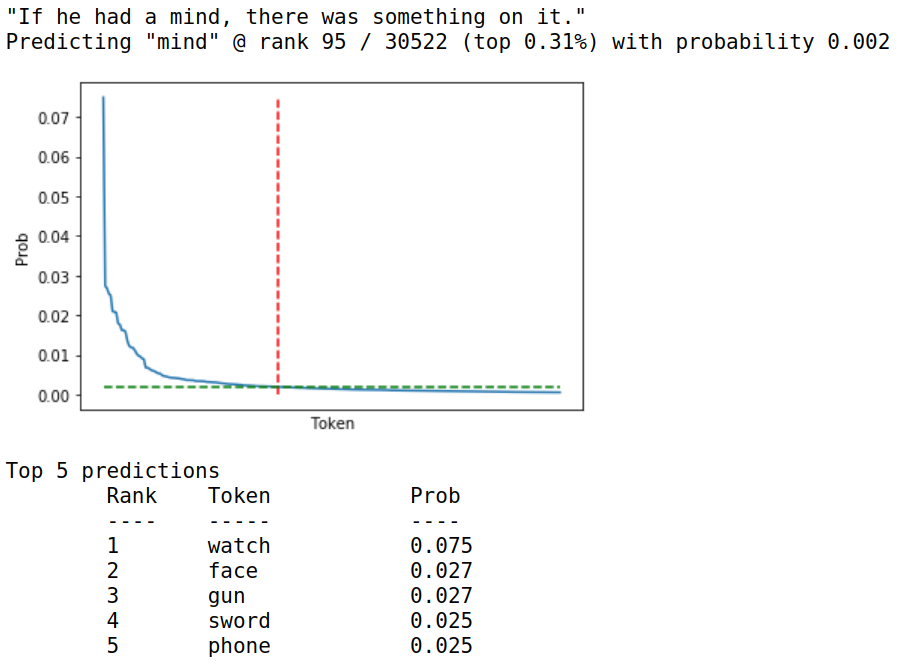
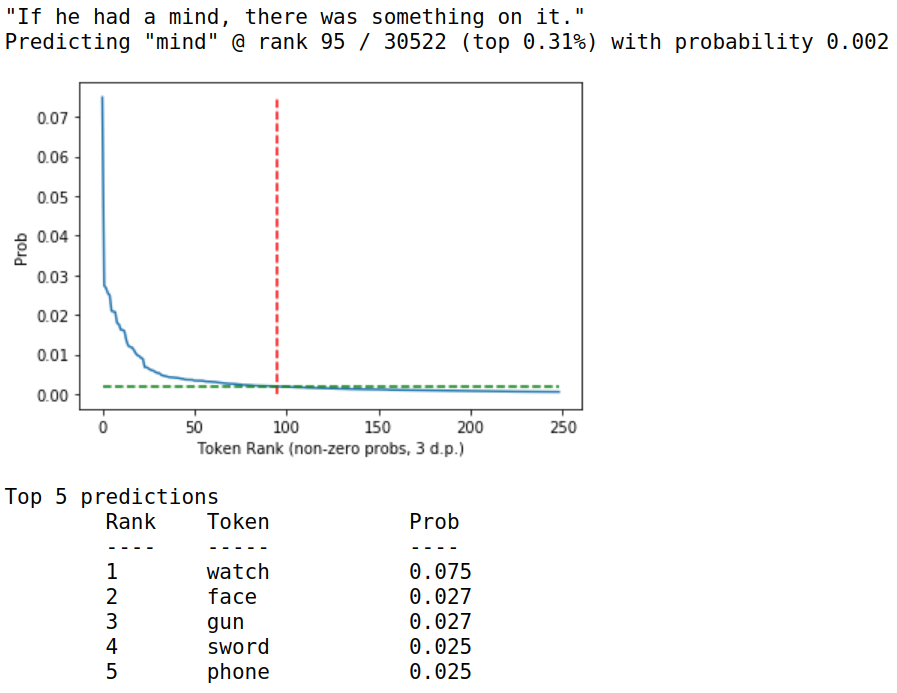
amended plot to be clearer

diff --git a/lm_diag.py b/lm_diag.py
@@ -105,8 +105,7 @@ class Evaluate:
             y = [target_prob] * m
             plt.plot(x, y, 'g--')
 
-        plt.xticks([], [])
-        plt.xlabel('Token')
+        plt.xlabel('Token Rank (non-zero probs, 3 d.p.)')
         plt.ylabel('Prob')
         plt.show()
 
